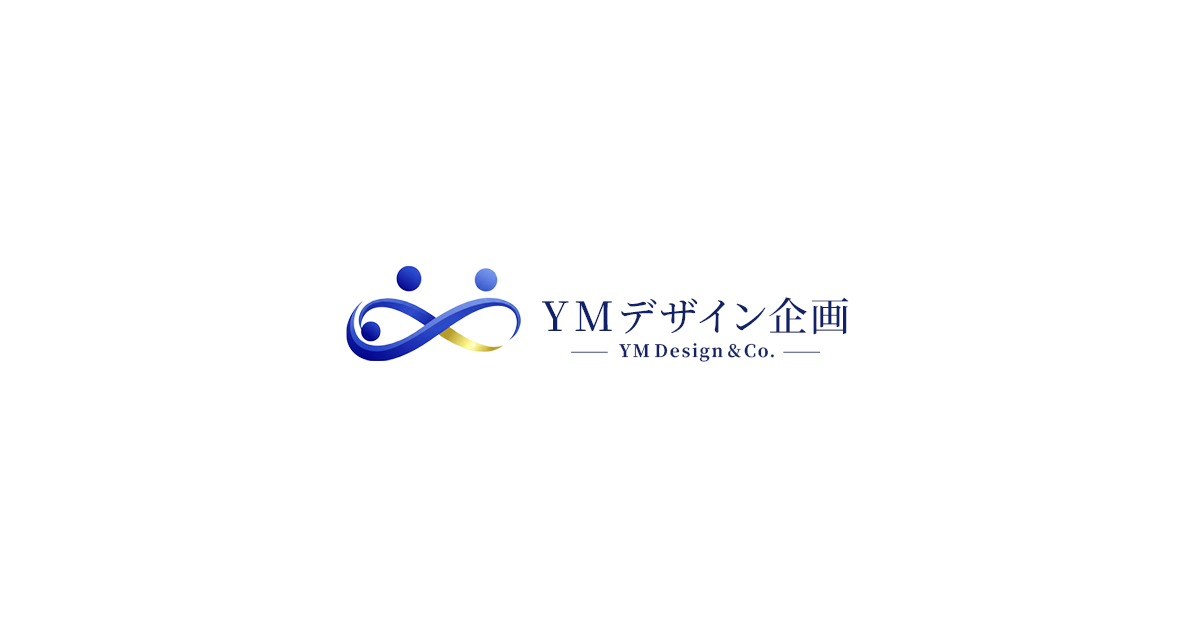
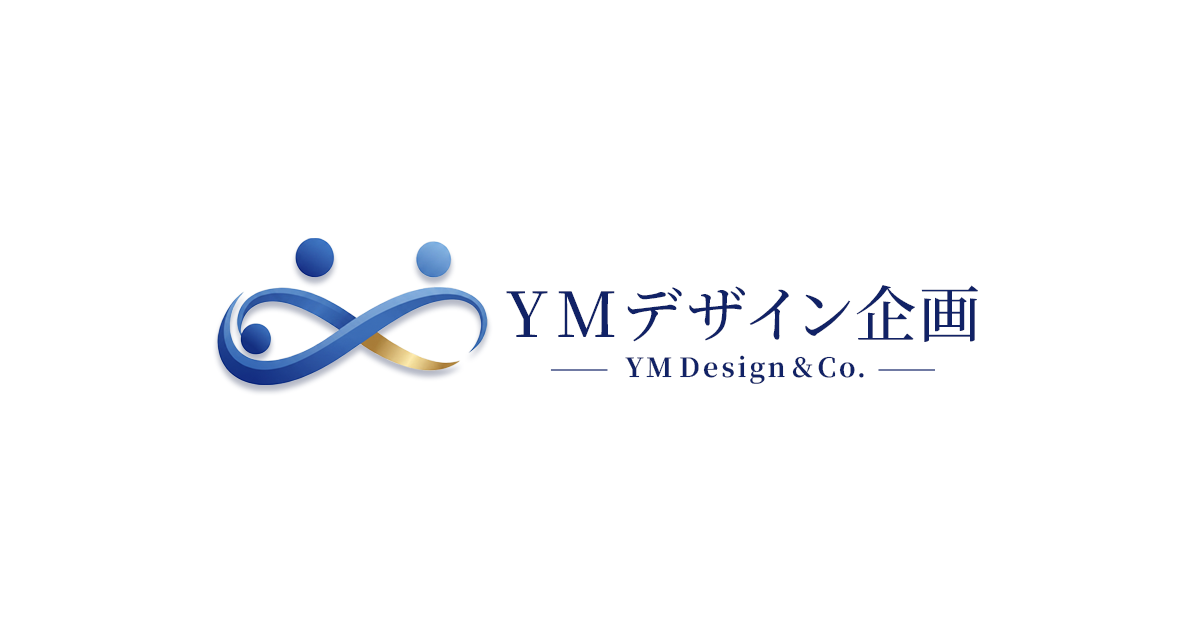
Update FAQ and service backgrounds and refresh OGP

Changed region(s): [[0.1542, 0.3619, 0.8325, 0.6333], [0.4625, 0.573, 0.4933, 0.6032]]

diff --git a/index.html b/index.html
@@ -552,6 +552,50 @@
     .svc-intro { padding:60px 24px; text-align:center; background:var(--g100); border-bottom:1px solid var(--g300); }
     .svc-intro h2 { font-family:'Noto Serif JP',serif; font-weight:700; font-size:1.625rem; color:var(--navy); line-height:1.65; margin-bottom:1.25rem; }
     .svc-intro p { font-size:1rem; color:var(--g600); line-height:1.9; max-width:640px; margin:0 auto; }
+    .svc-detail-area {
+      position:relative;
+      overflow:hidden;
+      background:#fff;
+      isolation:isolate;
+    }
+    #page-service > .svc-detail-area::before {
+      content:'';
+      position:absolute;
+      pointer-events:none;
+      z-index:0;
+      inset:0;
+      height:auto;
+      background-image:url("assets/service-bg-wave-pc.png?v=5");
+      background-repeat:no-repeat;
+      background-position:calc(50% - 100px) top;
+      background-size:185% auto;
+      opacity:.3;
+    }
+    #page-service > .svc-detail-area > * { position:relative; z-index:1; }
+    #page-service .svc-detail + .svc-detail::before {
+      content:'';
+      position:absolute;
+      top:0;
+      left:clamp(12px, 4vw, 72px);
+      right:clamp(12px, 4vw, 72px);
+      height:2px;
+      background:linear-gradient(90deg, rgba(228,214,165,0) 0%, rgba(217,197,140,.78) 22%, rgba(196,219,240,.86) 54%, rgba(217,197,140,.72) 82%, rgba(228,214,165,0) 100%);
+      opacity:.72;
+      pointer-events:none;
+      z-index:2;
+    }
+    #page-service .svc-detail-area .svc-detail:first-child::before {
+      content:'';
+      position:absolute;
+      top:0;
+      left:clamp(12px, 4vw, 72px);
+      right:clamp(12px, 4vw, 72px);
+      height:2px;
+      background:linear-gradient(90deg, rgba(228,214,165,0) 0%, rgba(217,197,140,.78) 22%, rgba(196,219,240,.86) 54%, rgba(217,197,140,.72) 82%, rgba(228,214,165,0) 100%);
+      opacity:.72;
+      pointer-events:none;
+      z-index:2;
+    }
     .svc-detail { padding:80px 0; border-bottom:1px solid var(--g300); }
     .svc-detail:last-of-type { border-bottom:none; }
     .svc-detail__inner { max-width:960px; margin:0 auto; padding:0 40px; display:flex; align-items:center; gap:60px; }
@@ -823,7 +867,30 @@
     .about-table__value { flex:1; font-weight:500; color:var(--g800); font-size:.9375rem; }
 
     /* ===== FAQ PAGE ===== */
-    .faq-examples { padding:80px 24px; background:var(--g100); }
+    .faq-examples {
+      position:relative;
+      overflow:hidden;
+      padding:80px 24px;
+      background:linear-gradient(180deg, #eff8fd 0%, #f5fbff 100%);
+      border-top:1px solid #dce9f5;
+      border-bottom:1px solid #e3edf7;
+    }
+    .faq-examples__deco {
+      position:absolute;
+      pointer-events:none;
+      opacity:.18;
+      z-index:0;
+      width:132%;
+      max-width:none;
+      left:calc(-10% + 100px);
+      bottom:-22px;
+      top:auto;
+      object-fit:cover;
+      object-position:left bottom;
+      transform:rotate(6deg) translateY(100px);
+      transform-origin:80% 100%;
+    }
+    .faq-examples > *:not(.faq-examples__deco) { position:relative; z-index:1; }
     .faq-examples__grid { display:grid; grid-template-columns:repeat(2,1fr); gap:20px; max-width:900px; margin:0 auto 2rem; }
     .faq-example-card {
       --faq-accent:#0f4c81;
@@ -837,10 +904,11 @@
       box-shadow:0 2px 7px rgba(16,45,80,.045);
       min-height:172px;
     }
-    .faq-example-card.s-gold { --faq-accent:#d8be6a; --faq-accent-soft:#fcf8ed; --faq-accent-border:#eadfbe; }
-    .faq-example-card.s-teal { --faq-accent:#078c95; --faq-accent-soft:#f1f9fa; --faq-accent-border:#d0e8ea; }
-    .faq-example-card.s-greenblue { --faq-accent:#4f8f9b; --faq-accent-soft:#f2f8f9; --faq-accent-border:#d6e6e9; }
-    .faq-example-card.s-lavender { --faq-accent:#6f7ea6; --faq-accent-soft:#f4f6fb; --faq-accent-border:#dbe2ee; }
+    #page-faq .faq-example-card.s-sky { --faq-accent:#66A9CF; --faq-accent-soft:#f3f9fd; --faq-accent-border:#d4e8f4; }
+    #page-faq .faq-example-card.s-yellow { --faq-accent:#D8BE6A; --faq-accent-soft:#fcf8ed; --faq-accent-border:#eadfbe; }
+    #page-faq .faq-example-card.s-teal { --faq-accent:#078c95; --faq-accent-soft:#f1f9fa; --faq-accent-border:#d0e8ea; }
+    #page-faq .faq-example-card.s-other { --faq-accent:#6F7EA6; --faq-accent-soft:#f4f6fb; --faq-accent-border:#d8dfec; }
+    #page-faq .faq-example-card.s-indigo { --faq-accent:#0F4C81; --faq-accent-soft:#f5f9fd; --faq-accent-border:#d8e5f2; }
     .faq-example-card__q { font-weight:700; font-size:.9375rem; color:var(--g800); margin-bottom:12px; display:flex; gap:8px; }
     .faq-example-card__q span {
       color:var(--faq-accent);
@@ -858,6 +926,7 @@
     }
     .faq-example-card__a { font-size:.875rem; color:var(--g600); line-height:1.72; padding-top:12px; border-top:1px solid color-mix(in srgb, var(--faq-accent) 15%, #d7e1ec 85%); display:flex; gap:8px; }
     .faq-example-card__a span { color:var(--faq-accent); font-weight:700; flex-shrink:0; }
+    #page-faq .faq-examples .svc-note { background:#fff; }
     .faq-qlist { padding:80px 24px; background:#fff; border-top:1px solid var(--g300); }
     .faq-qlist__inner { max-width:768px; margin:0 auto; }
     .faq-qlist h2 { font-family:'Noto Serif JP',serif; font-weight:900; font-size:1.875rem; color:var(--navy); text-align:center; margin-bottom:3rem; }
@@ -1176,6 +1245,13 @@
       .about-values__grid { grid-template-columns:repeat(2,1fr); }
       .faq-examples__grid { grid-template-columns:1fr; }
       #page-faq .faq-examples { padding:64px 20px; }
+      #page-faq .faq-examples__deco {
+        width:138%;
+        left:-16%;
+        bottom:-14px;
+        opacity:.14;
+        transform:rotate(4deg) translateY(42px);
+      }
       #page-faq .faq-examples__grid { gap:14px; margin-bottom:1.5rem; }
       #page-faq .faq-example-card { padding:16px 18px; min-height:auto; border-left-width:3px; }
       #page-faq .faq-example-card__q { font-size:.93rem; line-height:1.68; margin-bottom:10px; gap:7px; }
@@ -1384,6 +1460,13 @@
       #page-about .about-values__card p { font-size:.86rem; line-height:1.68; max-width:18.5em; }
       .faq-examples, .faq-qlist { padding:48px 16px; }
       #page-faq .faq-examples { padding:48px 14px; }
+      #page-faq .faq-examples__deco {
+        width:140%;
+        left:-20%;
+        bottom:-8px;
+        opacity:.12;
+        transform:rotate(3deg) translateY(36px);
+      }
       #page-faq .faq-example-card { padding:14px 14px; border-radius:9px; }
       #page-faq .faq-example-card__q { font-size:.89rem; line-height:1.65; margin-bottom:9px; }
       #page-faq .faq-example-card__q span { font-size:.96rem; }
@@ -1634,6 +1717,7 @@
   <div class="pg-hero"><span class="pg-hero__en">SERVICE</span><span class="pg-hero__ja">相談できること</span></div>
   <div class="svc-intro"><h2><span class="svc-intro-main">産廃・リサイクル、<br class="sp-only">工事・設備</span><span class="svc-intro-tail">まわりの</span><br class="pc-only">「どこに相談すればいい？」<br class="sp-only">を整理してつなぎます。</h2><p>建設廃材・焼却物処分、太陽光パネル関連、廃油・塩ビ樹脂廃材買取、電気工事、中古車販売・買取を中心に、事業者様のお困りごとを丁寧にヒアリングし、内容に応じて必要な専門事業者・提携先へおつなぎします。</p></div>
 
+  <div class="svc-detail-area">
   <div id="service-01" class="svc-detail">
     <div class="svc-detail__inner">
       <div class="svc-detail__body svc01-head">
@@ -1875,6 +1959,7 @@
       </div>
     </div>
   </div>
+  </div>
 
   <div class="svc-note-wrap" style="max-width:900px;margin:0 auto 28px;padding:0 40px"><div class="svc-note"><strong>※ご注意</strong>各種処分・工事等は、内容に応じて必要な許可・資格を有する専門事業者・提携先と連携して対応いたします。YMデザイン企画がすべての業務を直接施工・処分するものではありません。</div></div>
   <div class="svc-note-wrap" style="max-width:900px;margin:0 auto 80px;padding:0 40px">
@@ -1960,14 +2045,15 @@
 <div id="page-faq" class="page-content hidden">
   <div class="pg-hero"><span class="pg-hero__en">FAQ</span><span class="pg-hero__ja">よくある相談例・ご質問</span></div>
   <div class="faq-examples">
+    <img src="assets/section7_bg.png" alt="" class="faq-examples__deco">
     <div style="text-align:center;margin-bottom:3rem;"><h2 class="sec-heading">よくあるご相談例</h2><p class="sec-sub" style="margin-bottom:0;">以下のような内容でご相談いただくケースが多くございます。<br class="sp-only"><br class="sp-only">「こんなことでも大丈夫？」という場合も、まずはお気軽にご相談ください。</p></div>
     <div class="faq-examples__grid">
-      <div class="faq-example-card"><div class="faq-example-card__q"><span>Q.</span>建設廃材や焼却物の処分先を探している</div><div class="faq-example-card__a"><span>A.</span>処分内容や条件を整理したうえで、対応可能な専門事業者・提携先へおつなぎします。</div></div>
-      <div class="faq-example-card s-gold"><div class="faq-example-card__q"><span>Q.</span>太陽光パネルの設置・撤去・処分について相談したい</div><div class="faq-example-card__a"><span>A.</span>案件内容に応じて、必要な専門先との連携を行います。</div></div>
-      <div class="faq-example-card"><div class="faq-example-card__q"><span>Q.</span>廃油や塩ビ・樹脂廃材の買取先を探している</div><div class="faq-example-card__a"><span>A.</span>リサイクルにつながる買取相談として、内容を確認しながら対応します。</div></div>
+      <div class="faq-example-card s-sky"><div class="faq-example-card__q"><span>Q.</span>建設廃材や焼却物の処分先を探している</div><div class="faq-example-card__a"><span>A.</span>処分内容や条件を整理したうえで、対応可能な専門事業者・提携先へおつなぎします。</div></div>
+      <div class="faq-example-card s-yellow"><div class="faq-example-card__q"><span>Q.</span>太陽光パネルの設置・撤去・処分について相談したい</div><div class="faq-example-card__a"><span>A.</span>案件内容に応じて、必要な専門先との連携を行います。</div></div>
+      <div class="faq-example-card s-sky"><div class="faq-example-card__q"><span>Q.</span>廃油や塩ビ・樹脂廃材の買取先を探している</div><div class="faq-example-card__a"><span>A.</span>リサイクルにつながる買取相談として、内容を確認しながら対応します。</div></div>
       <div class="faq-example-card s-teal"><div class="faq-example-card__q"><span>Q.</span>電気工事や足場工事の依頼先を探している</div><div class="faq-example-card__a"><span>A.</span>現場状況や条件を整理し、対応可能な専門事業者へおつなぎします。</div></div>
-      <div class="faq-example-card s-lavender"><div class="faq-example-card__q"><span>Q.</span>片付け・粗大ゴミ回収・遺品整理について相談したい</div><div class="faq-example-card__a"><span>A.</span>内容や状況を確認し、対応可能な専門先へのご案内・連携を行います。</div></div>
-      <div class="faq-example-card s-lavender"><div class="faq-example-card__q"><span>Q.</span>中古車関連やWEB制作について相談したい</div><div class="faq-example-card__a"><span>A.</span>中古車関連事業や、HP・バナー・LP制作などのWEB制作についても内容に応じてご相談いただけます。</div></div>
+      <div class="faq-example-card s-other"><div class="faq-example-card__q"><span>Q.</span>片付け・粗大ゴミ回収・遺品整理について相談したい</div><div class="faq-example-card__a"><span>A.</span>内容や状況を確認し、対応可能な専門先へのご案内・連携を行います。</div></div>
+      <div class="faq-example-card s-indigo"><div class="faq-example-card__q"><span>Q.</span>中古車関連やWEB制作について相談したい</div><div class="faq-example-card__a"><span>A.</span>中古車関連事業や、HP・バナー・LP制作などのWEB制作についても内容に応じてご相談いただけます。</div></div>
     </div>
     <div class="svc-note" style="max-width:900px;margin:0 auto;"><strong>※ご注意</strong>各種処分・工事等は、内容に応じて必要な許可・資格を有する専門事業者・提携先と連携して対応いたします。YMデザイン企画がすべての業務を直接施工・処分するものではありません。</div>
   </div>